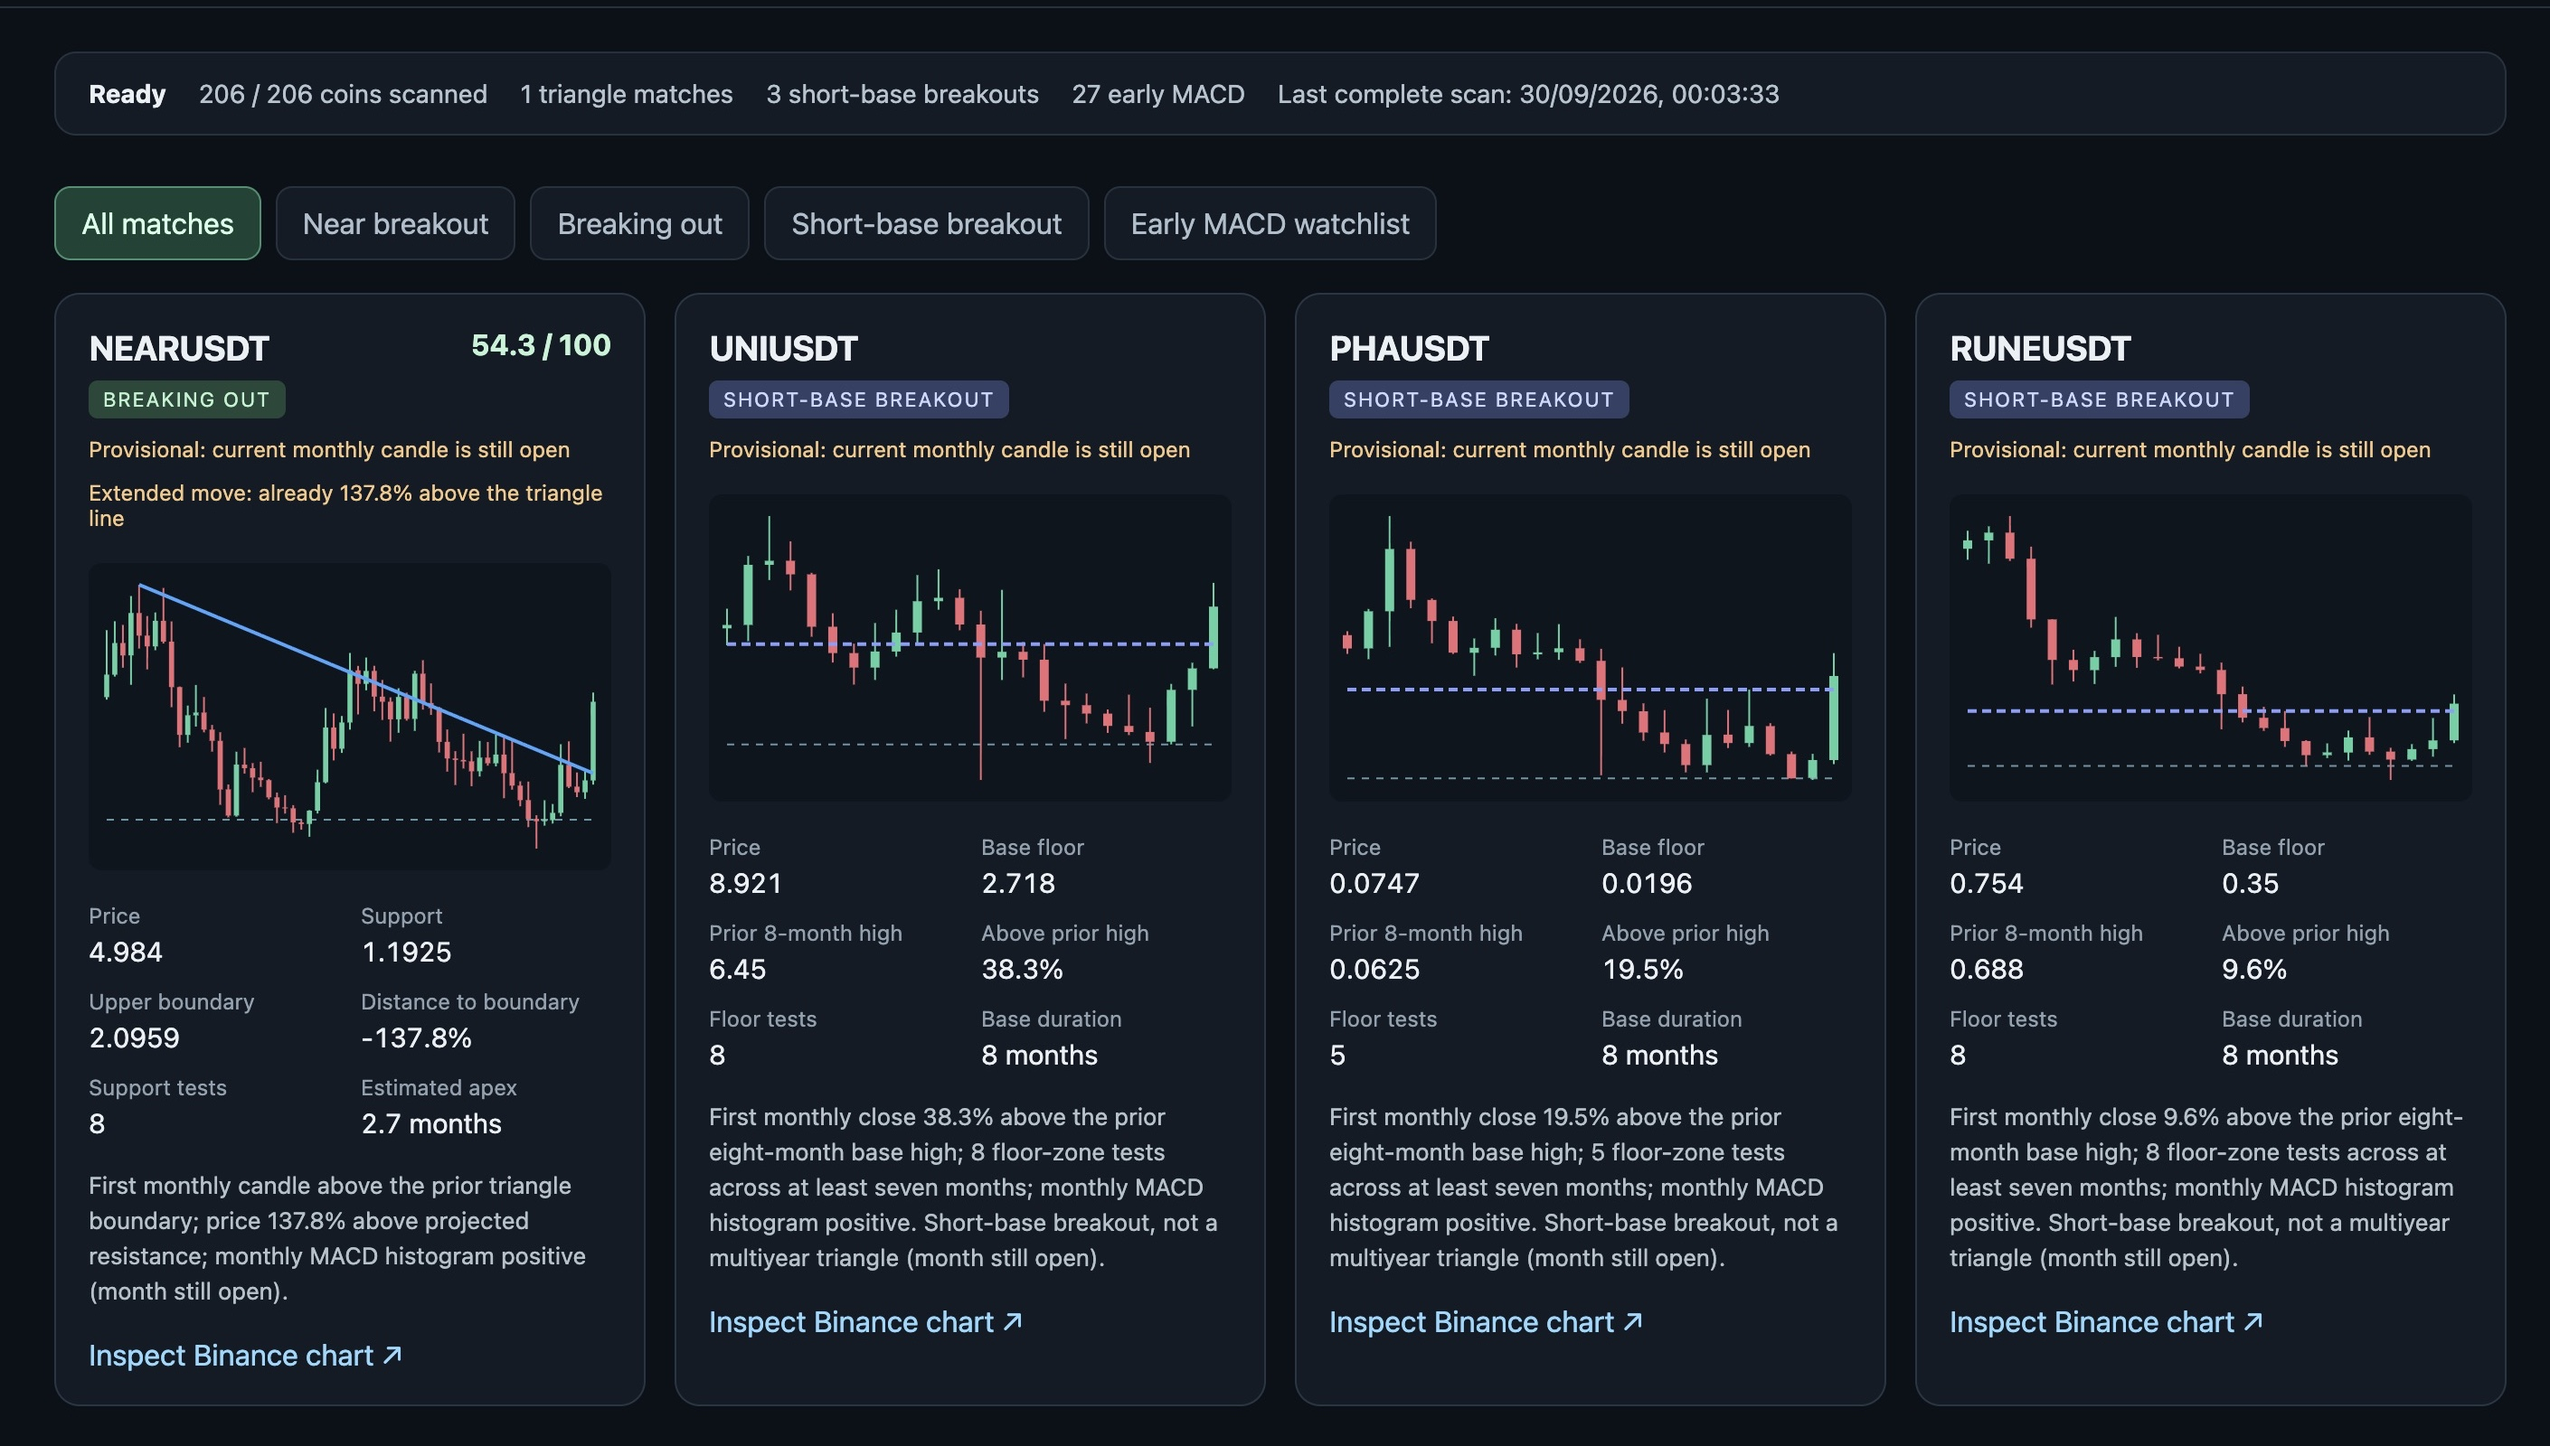
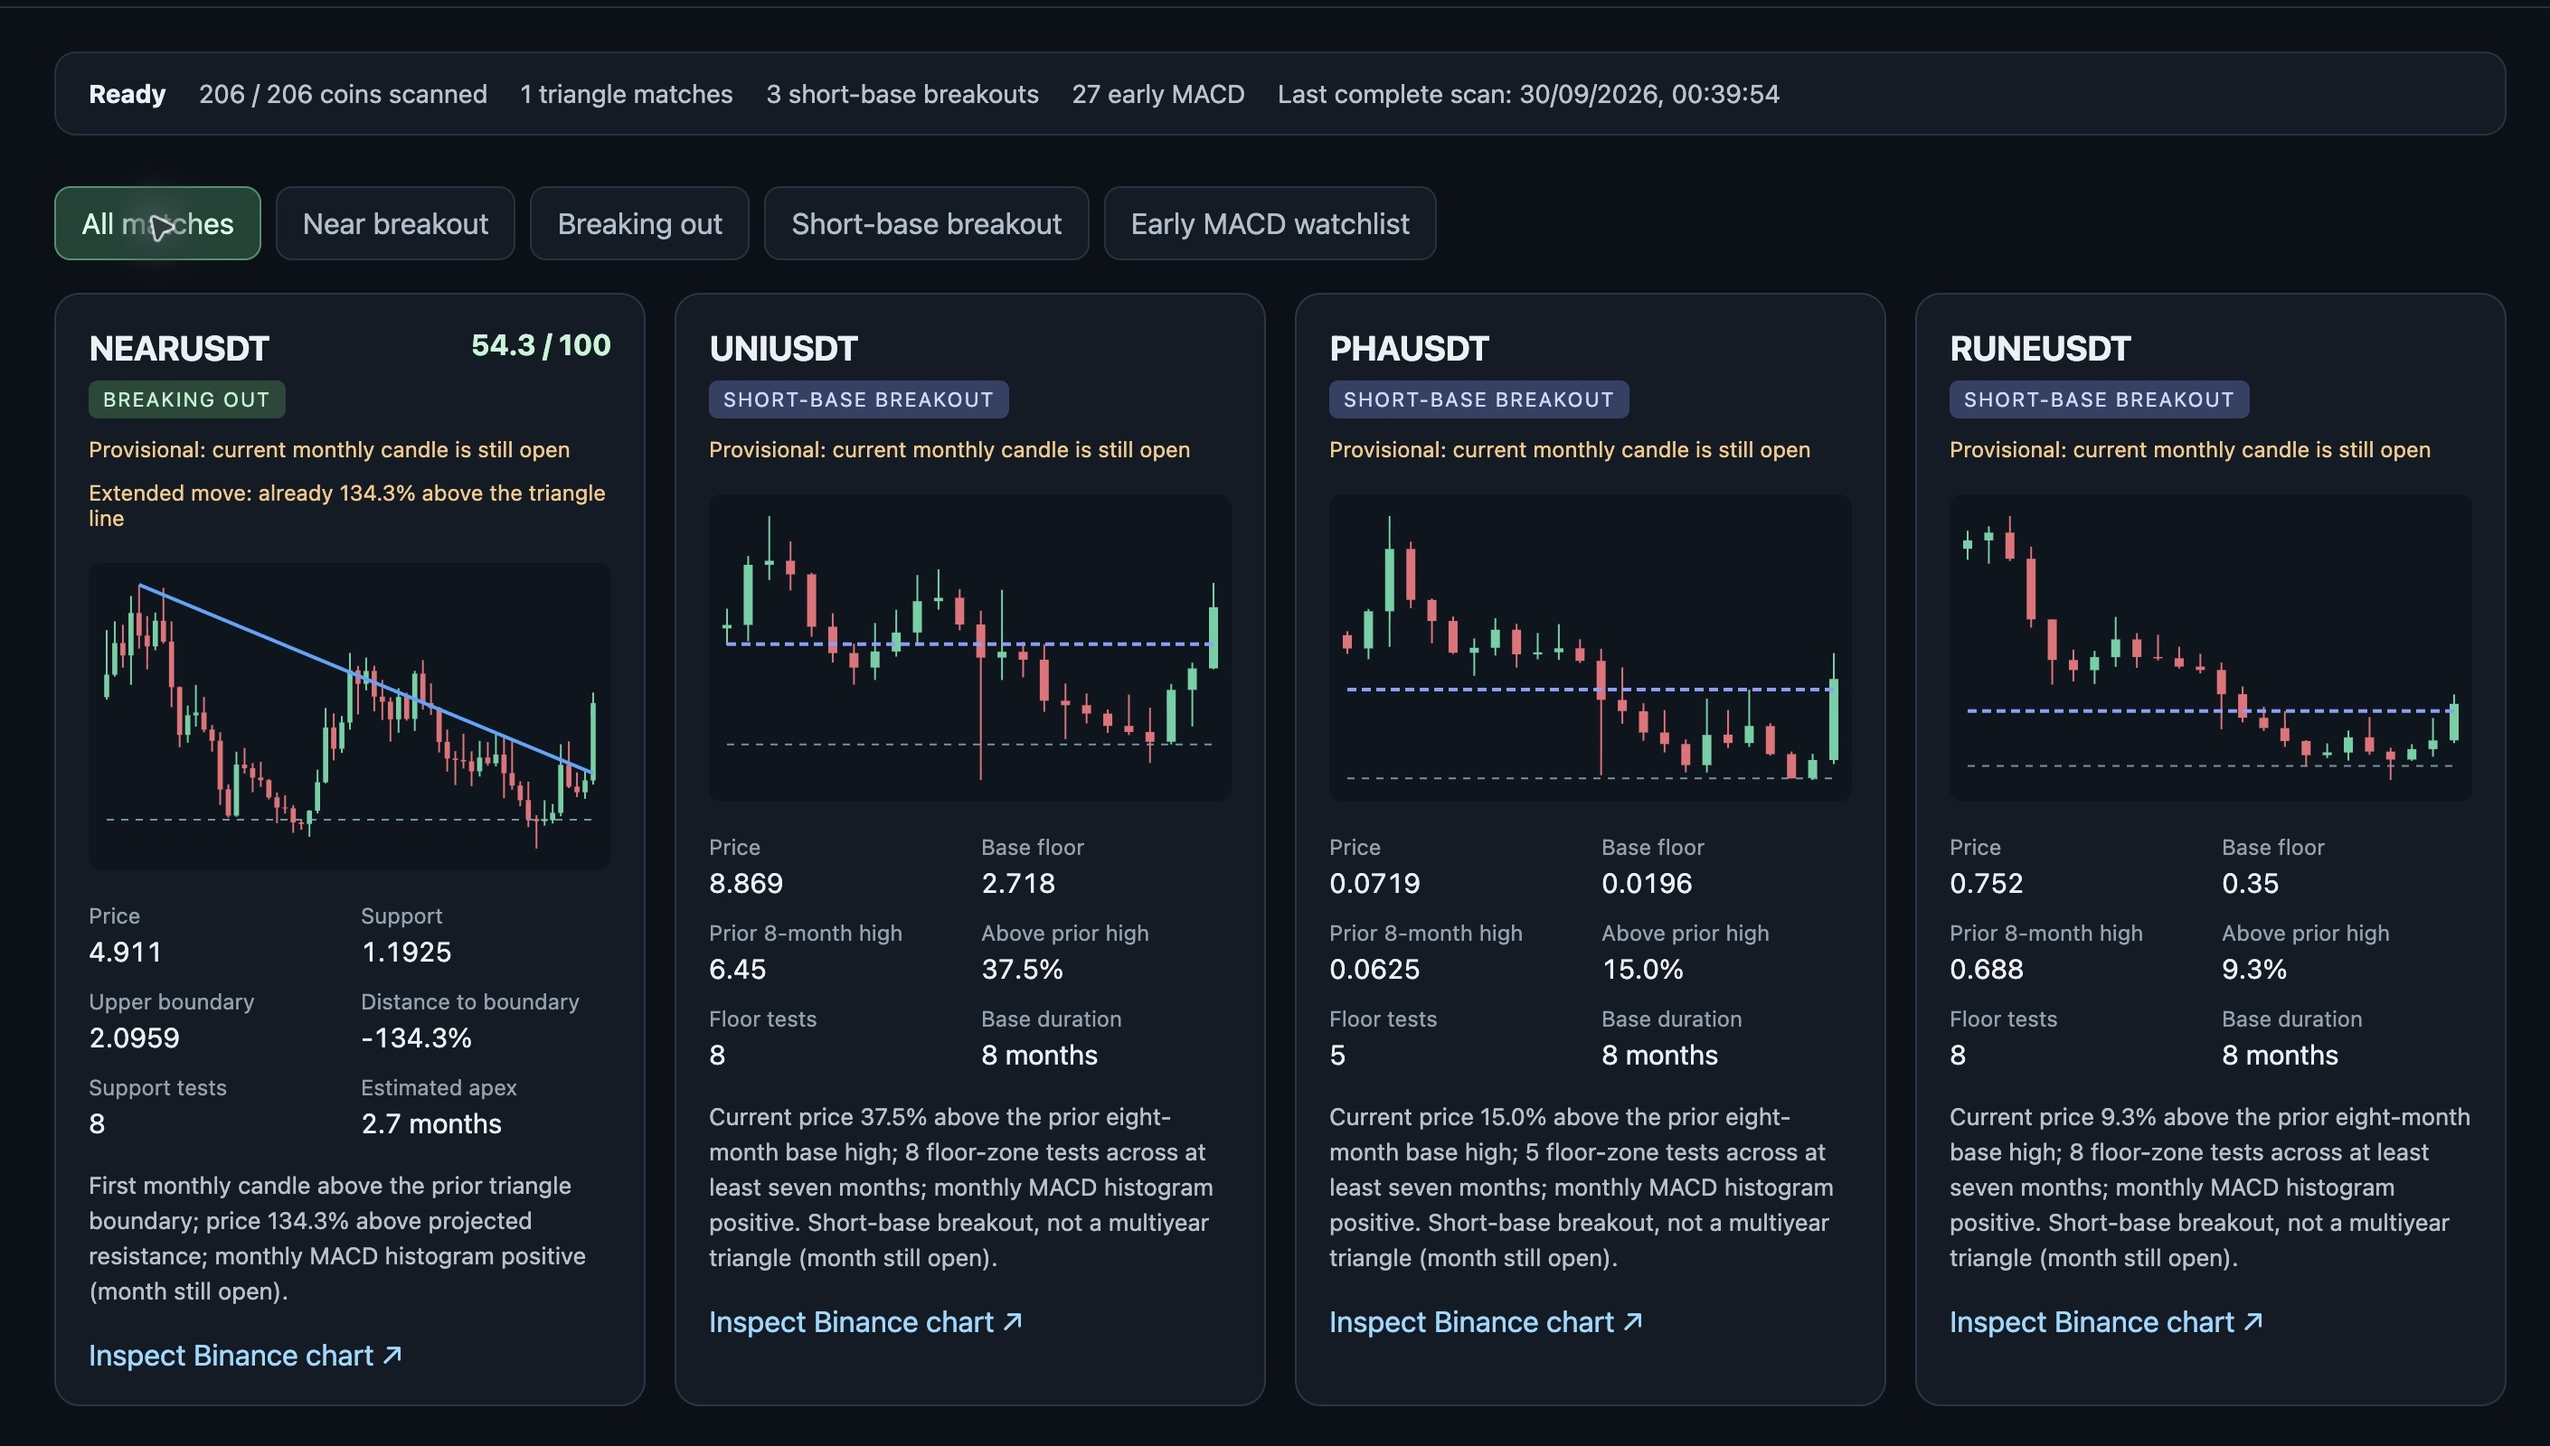
Clarify provisional monthly breakout signals

diff --git a/index.html b/index.html
@@ -50,7 +50,7 @@
       <button data-filter="watchlist">Early MACD watchlist</button>
     </div>
     <section id="cards" aria-live="polite"></section>
-    <p class="note">Triangle matches use a multiyear descending upper line. Short-base breakouts have a shorter flat floor and a monthly close above the prior eight-month high; they are labelled separately. The early MACD watchlist only tracks negative histograms rising toward zero. These are screening results, not buy recommendations. The triangle fit score is not a profit probability. Open monthly candles can change before month close.</p>
+    <p class="note">Triangle matches use a multiyear descending upper line. Short-base breakouts have a shorter flat floor and a current price above the prior eight-month high; they are labelled separately. The early MACD watchlist only tracks negative histograms rising toward zero. These are screening results, not buy recommendations. The triangle fit score is not a profit probability. Open monthly candles can change before month close.</p>
   </main>
   <script>
     const cards = document.querySelector('#cards');

diff --git a/triangle_scanner.py b/triangle_scanner.py
@@ -148,7 +148,7 @@ def detect_macd_watch(symbol: str, candles: Sequence[Candle],
 
 def detect_short_base_breakout(symbol: str, candles: Sequence[Candle],
                                now_ms: int | None = None) -> BaseBreakout | None:
-    """First monthly close above an eight-month floor/ceiling after a decline.
+    """First monthly candle above an eight-month floor/ceiling after a decline.
 
     This is deliberately distinct from the multiyear descending-triangle fit.
     """
@@ -188,7 +188,8 @@ def detect_short_base_breakout(symbol: str, candles: Sequence[Candle],
     provisional = current.close_time >= now_ms
     month = datetime.fromtimestamp(current.open_time / 1000,
                                    tz=timezone.utc).strftime("%Y-%m")
-    reason = (f"First monthly close {abs(distance):.1f}% above the prior "
+    price_label = "Current price" if provisional else "First monthly close"
+    reason = (f"{price_label} {abs(distance):.1f}% above the prior "
               f"eight-month base high; {len(touches)} floor-zone tests across "
               f"at least seven months; monthly MACD histogram positive. "
               f"Short-base breakout, not a multiyear triangle"

diff --git a/tests/test_scanner.py b/tests/test_scanner.py
@@ -71,6 +71,14 @@ class TriangleScannerTests(unittest.TestCase):
         self.assertGreater(match.price, match.resistance)
         self.assertTrue(match.provisional)
         self.assertGreater(match.macd_histogram, 0)
+        self.assertIn("Current price", match.reason)
+        self.assertNotIn("First monthly close", match.reason)
+
+        closed = detect_short_base_breakout("PHAUSDT", candles,
+                                            now_ms=candles[-1].close_time + 1)
+        self.assertIsNotNone(closed)
+        self.assertFalse(closed.provisional)
+        self.assertIn("First monthly close", closed.reason)
 
         next_month = Candle(1790812800000, 1793491199999, 0.0714, 0.12,
                             0.07, 0.11, 1_000_000)

diff --git a/README.md b/README.md
@@ -56,10 +56,11 @@ MAX_SYMBOLS=100 SCAN_INTERVAL_SECONDS=3600 PORT=8765 python3 app.py
   candle trades at least 1% above it, label that first candle **breaking out**
   even if the move is already large. An open monthly candle is marked
   **provisional**.
-- Label a coin **short-base breakout** when its first monthly close is at
+- Label a coin **short-base breakout** when its current monthly price is at
   least 5% above the preceding eight months' high, after an eight-month floor
   with at least three tests spanning seven months. Require an earlier high at
   least twice that base high and a recently positive monthly MACD histogram.
+  The signal is provisional until the monthly candle closes.
   This category does **not** imply a multiyear descending triangle.
 - Put a coin in **Early MACD watchlist** when the last three monthly histogram
   readings are negative and each is higher than the preceding reading, the
